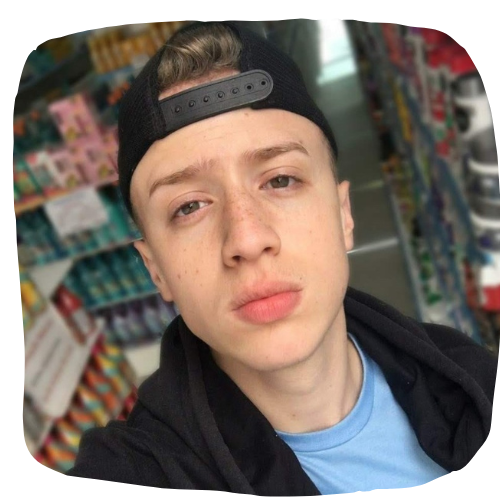
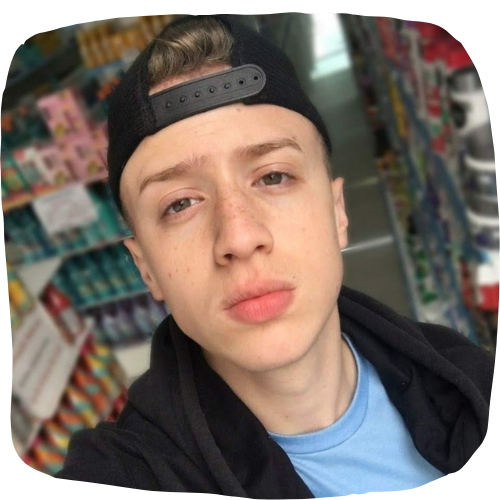
testando readme.md

diff --git a/src/components/AboutMe/styles.ts b/src/components/AboutMe/styles.ts
@@ -30,6 +30,7 @@ export const Content = styled.div`
   margin-top: 2rem;
 
   img {
+    border-radius: 4rem 0rem;
     width: 400px;
   }
 

diff --git a/prettier.config.js b/prettier.config.js
@@ -1,0 +1,5 @@
+module.exports = {
+  singleQuote: true,
+  tralingComma: 'all',
+  arrowParens: 'avoid',
+};

diff --git a/README.md b/README.md
@@ -1,34 +1,3 @@
-This is a [Next.js](https://nextjs.org/) project bootstrapped with [`create-next-app`](https://github.com/vercel/next.js/tree/canary/packages/create-next-app).
+Seja bem vindo ao meu portfolio, ou como costumo dizer...
 
-## Getting Started
-
-First, run the development server:
-
-```bash
-npm run dev
-# or
-yarn dev
-```
-
-Open [http://localhost:3000](http://localhost:3000) with your browser to see the result.
-
-You can start editing the page by modifying `pages/index.tsx`. The page auto-updates as you edit the file.
-
-[API routes](https://nextjs.org/docs/api-routes/introduction) can be accessed on [http://localhost:3000/api/hello](http://localhost:3000/api/hello). This endpoint can be edited in `pages/api/hello.ts`.
-
-The `pages/api` directory is mapped to `/api/*`. Files in this directory are treated as [API routes](https://nextjs.org/docs/api-routes/introduction) instead of React pages.
-
-## Learn More
-
-To learn more about Next.js, take a look at the following resources:
-
-- [Next.js Documentation](https://nextjs.org/docs) - learn about Next.js features and API.
-- [Learn Next.js](https://nextjs.org/learn) - an interactive Next.js tutorial.
-
-You can check out [the Next.js GitHub repository](https://github.com/vercel/next.js/) - your feedback and contributions are welcome!
-
-## Deploy on Vercel
-
-The easiest way to deploy your Next.js app is to use the [Vercel Platform](https://vercel.com/new?utm_medium=default-template&filter=next.js&utm_source=create-next-app&utm_campaign=create-next-app-readme) from the creators of Next.js.
-
-Check out our [Next.js deployment documentation](https://nextjs.org/docs/deployment) for more details.
+<img src="/assets/helloWorld.png" alt="Hello World" />
